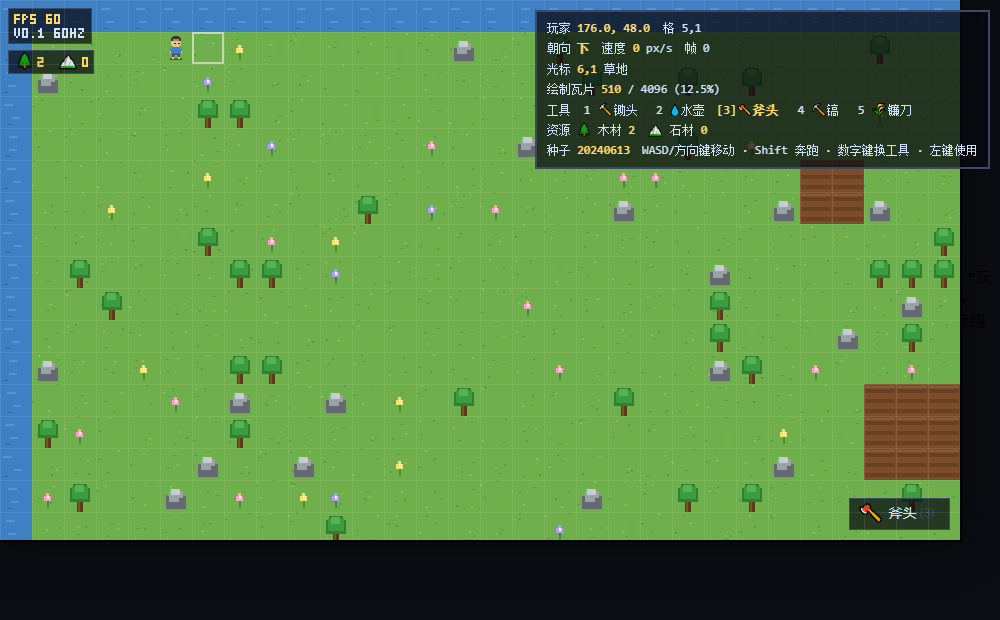
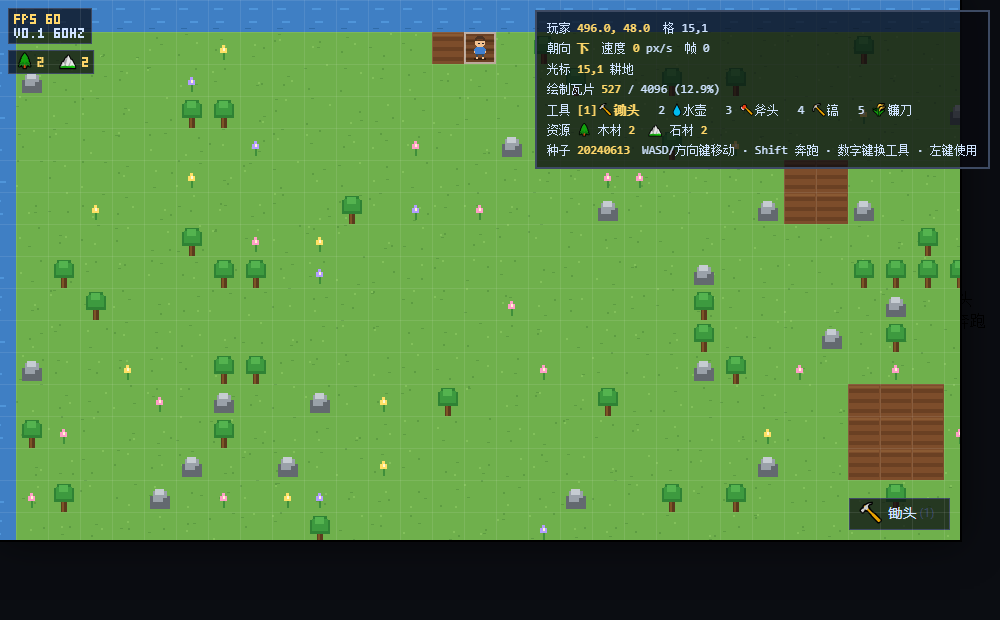
更新窗口调整事件，添加提示条布局功能以优化用户体验

diff --git a/index.html b/index.html
@@ -321,7 +321,7 @@ function fitCanvas(){
   canvas.style.width  = Math.round(VIEW_W * finalScale) + 'px';
   canvas.style.height = Math.round(VIEW_H * finalScale) + 'px';
 }
-window.addEventListener('resize', fitCanvas);
+window.addEventListener('resize', ()=>{ fitCanvas(); layoutToasts(); });
 fitCanvas();
 
 /* --- 单个瓦片绘制 --- */
@@ -685,6 +685,13 @@ function addResource(res, n){ resources[res] = (resources[res] || 0) + n; }
 
 /* --- 提示条：屏幕底部，1.5 秒淡出，多条向上排 --- */
 const toastBox = document.getElementById('toasts');
+/* 把提示条锚定到画布下沿（而不是视口底部，避免掉进黑边） */
+function layoutToasts(){
+  if(!toastBox) return;
+  const r = canvas.getBoundingClientRect();
+  toastBox.style.left = (r.left + r.width / 2) + 'px';
+  toastBox.style.bottom = Math.max(12, window.innerHeight - (r.top + r.height) + 16) + 'px';
+}
 function toast(msg){
   if(!toastBox) return;
   const el = document.createElement('div');
@@ -974,6 +981,7 @@ player.y = SPAWN.y*TILE + TILE/2;
 cam.x = clamp(player.x - VIEW_W/2, 0, MAP_W*TILE - VIEW_W);
 cam.y = clamp(player.y - VIEW_H/2, 0, MAP_H*TILE - VIEW_H);
 updateStats();
+layoutToasts();
 requestAnimationFrame(loop);
 
 /* 调试钩子（CONFIG.DEBUG_HOOK 打开时才暴露） */
